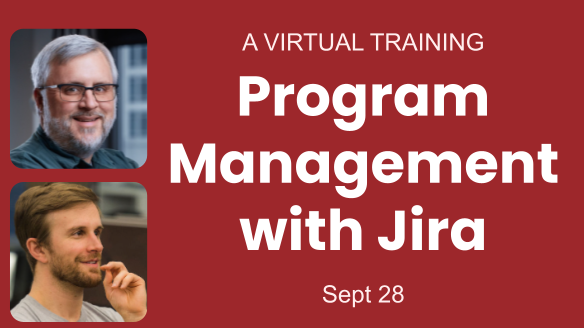
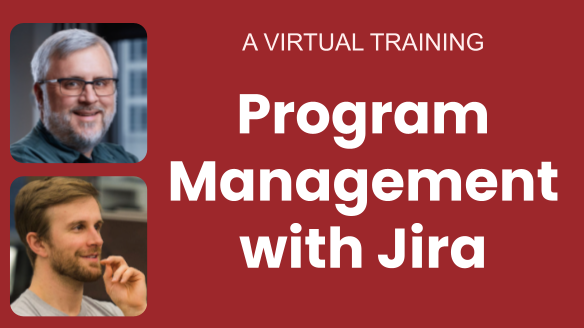
fixing thumbnail image (#421)

Changed region(s): [[0.0, 0.061, 0.9555, 1.0], [0.5548, 0.8537, 0.7089, 0.9451], [0.2158, 0.3963, 0.2774, 0.4268]]

diff --git a/src/program-management-with-jira/program-management.md b/src/program-management-with-jira/program-management.md
@@ -14,7 +14,7 @@ On Wednesday, January 24 at 11AM CT, attend a free 2.5-hour hands-on
 of some of the techniques in this training. <br/>
 <span>Register here.</span>
 </div>
-<img src="../static/img/program-management-with-jira/home/jan24-workshop-rect.png"/>
+<img src="../static/img/program-management-with-jira/home/training-thumbnail.png"/>
 </a>
 <a href="https://www.youtube.com/watch?v=ipW1I74cDGo">
 <div>Real World Results</div>
